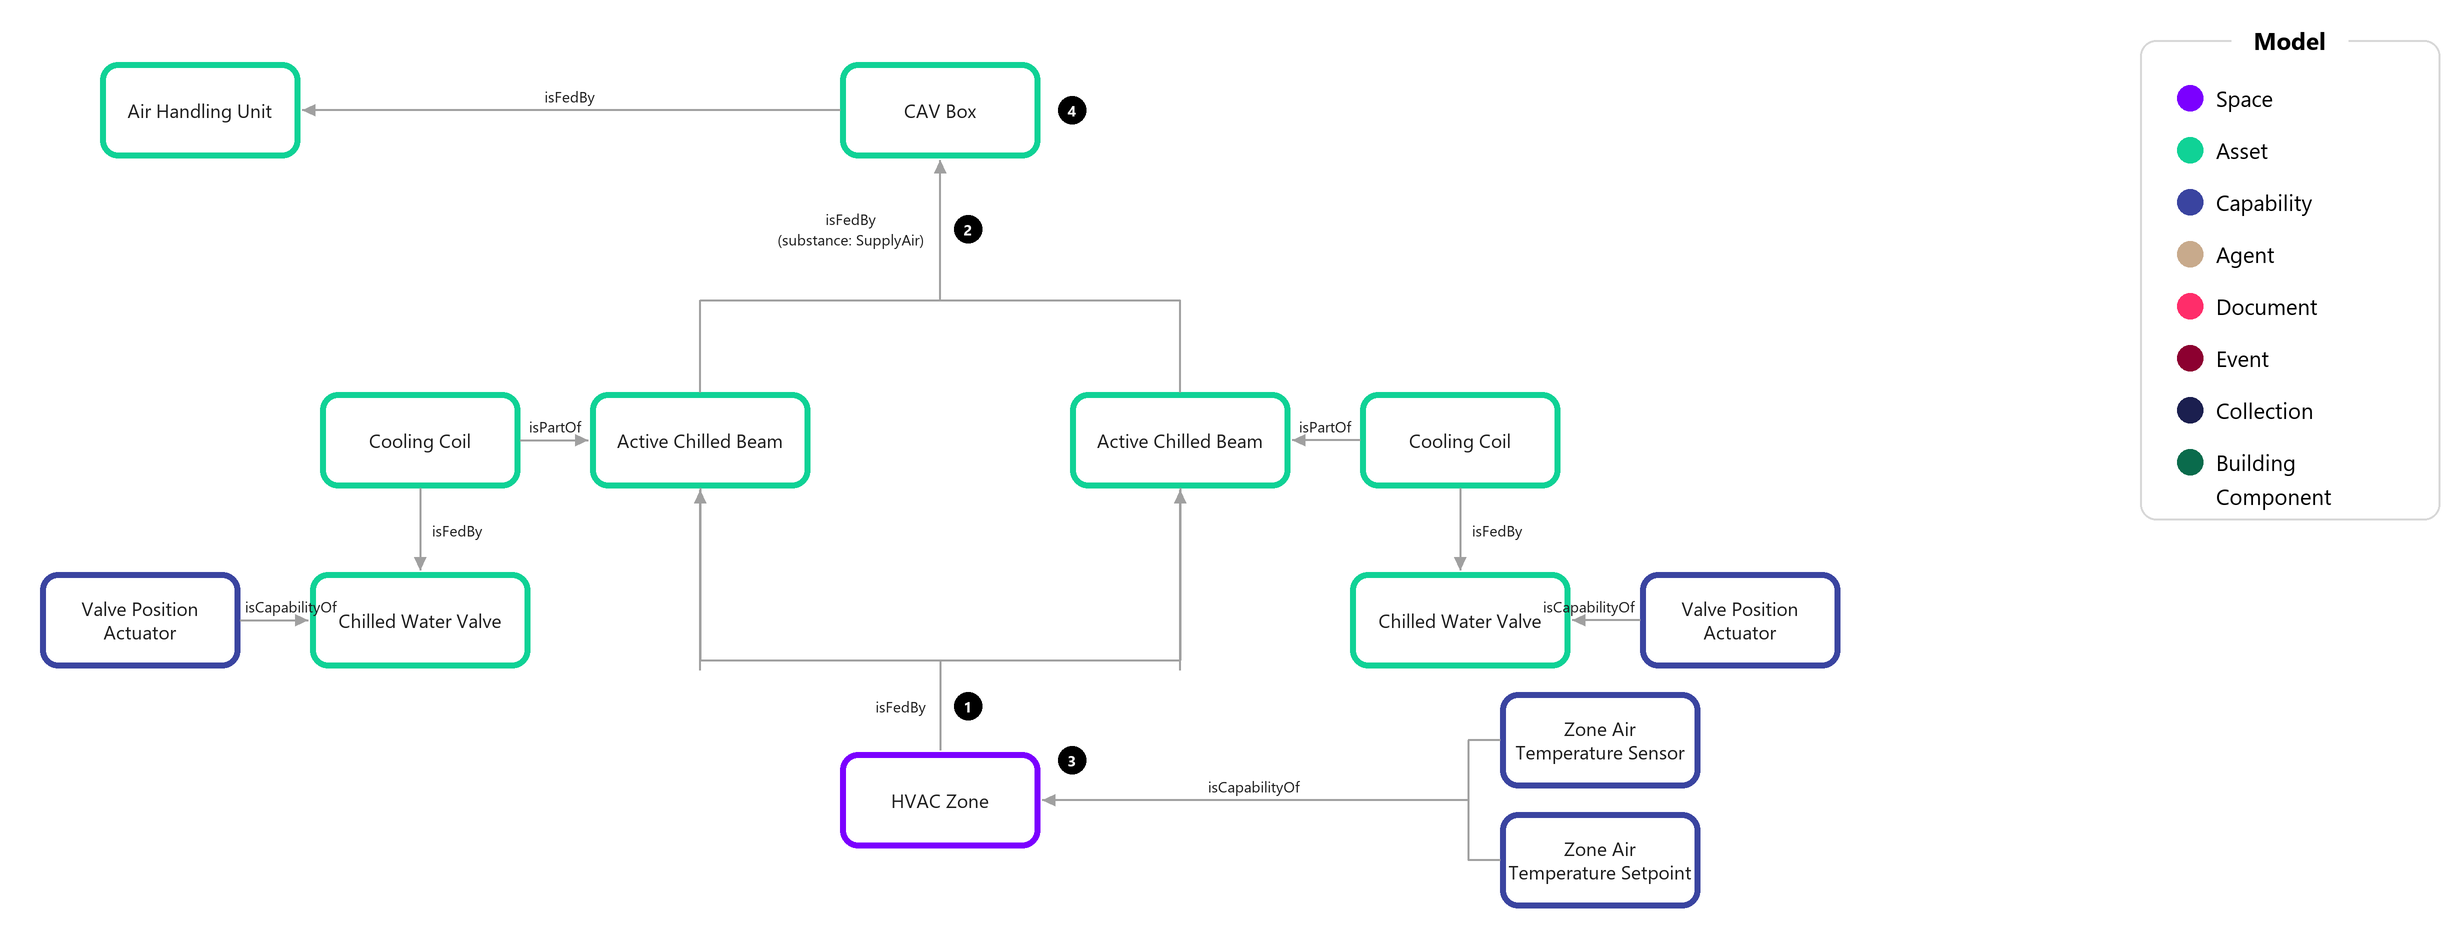
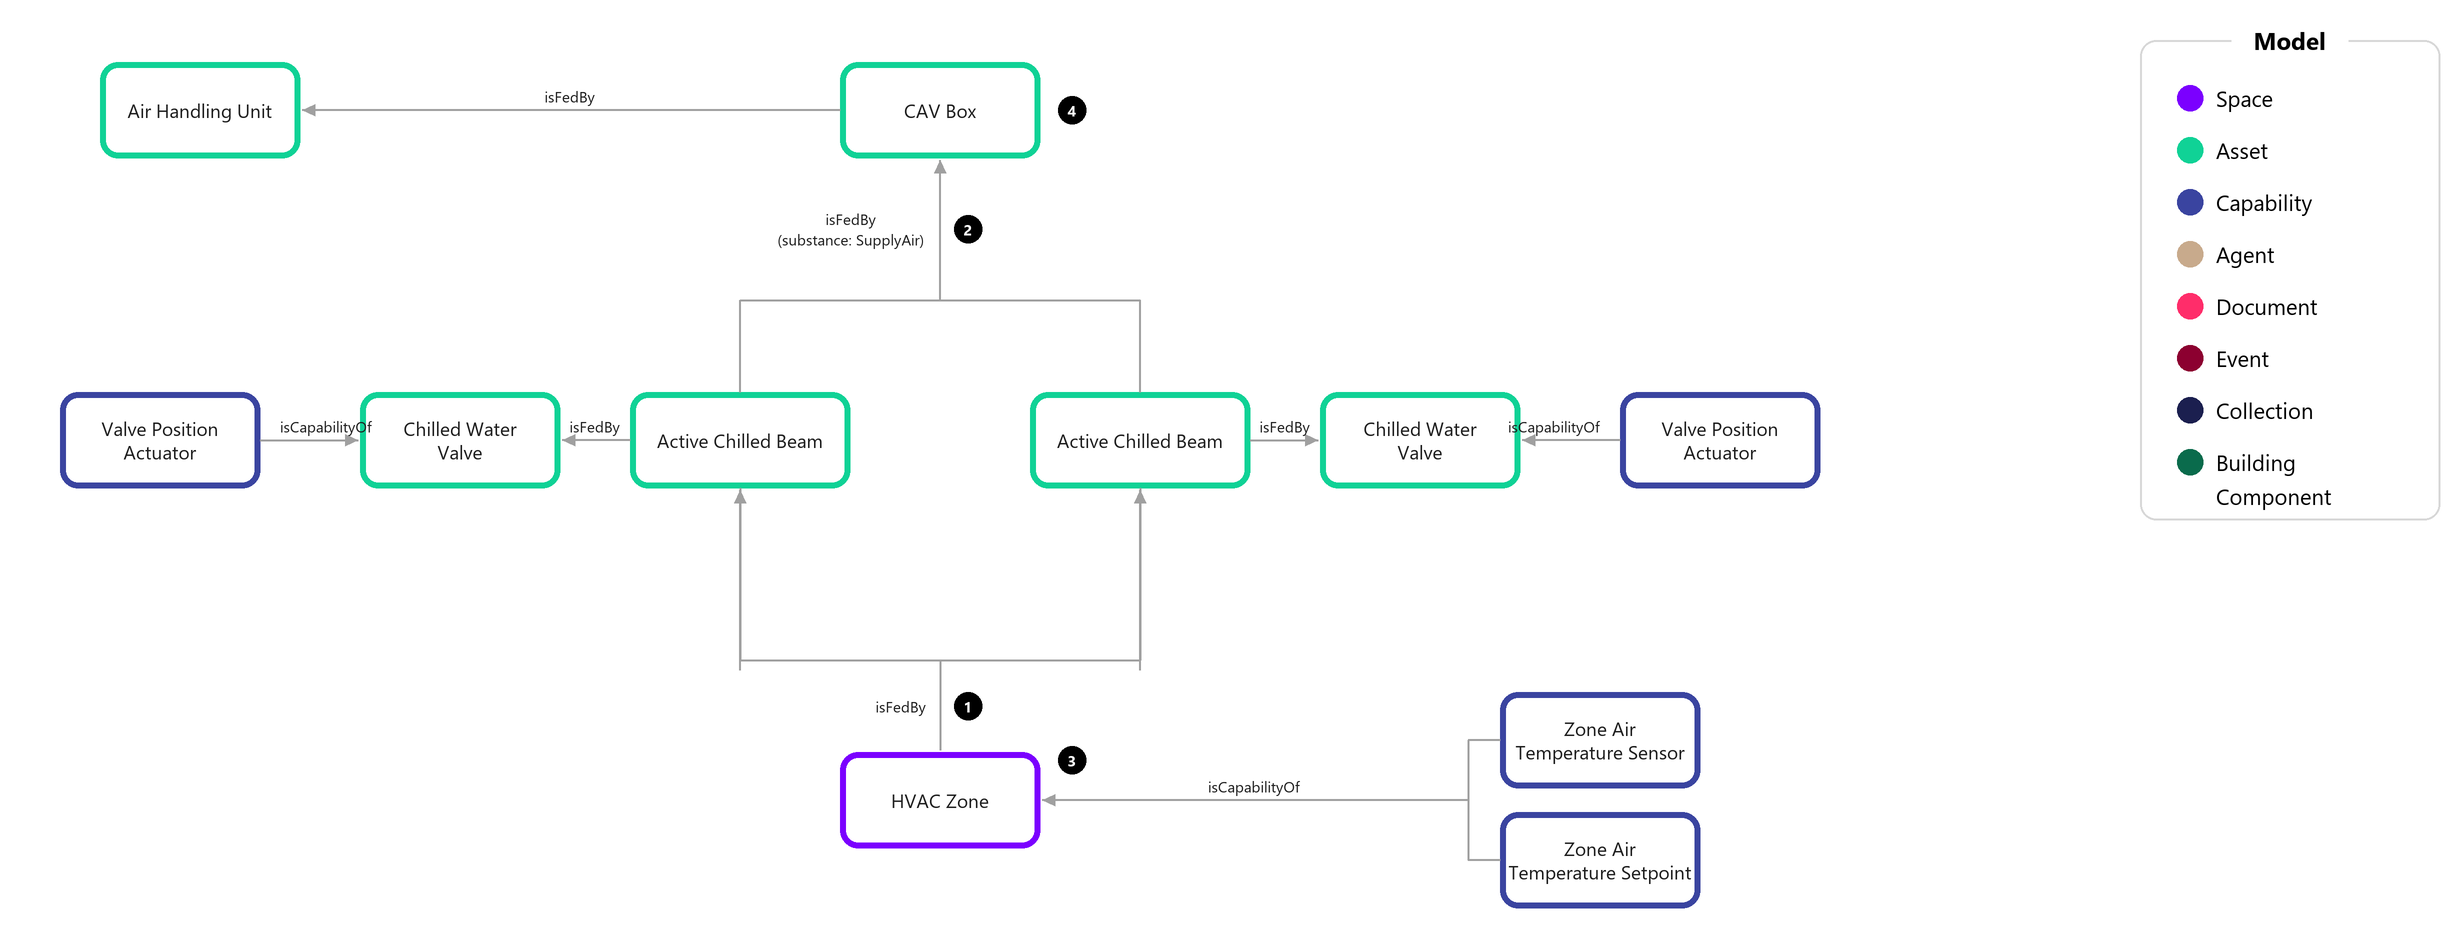
Chilled beam is the coil: its valve feeds the beam directly
Drops the Cooling Coil component from the chilled beam samples. A chilled
beam is itself the cooling coil, so the Chilled Water Valve relates to the
beam directly (beam isFedBy valve) with the valve position points on the
valve twin, and the beam keeps its chilled water feed from the pump. This
is the one terminal unit where a valve feeds the unit rather than a coil
component of it; the general rule says so.

diff --git a/Samples/Images/Source/HVACChilledBeam-Example1.py b/Samples/Images/Source/HVACChilledBeam-Example1.py
@@ -1,9 +1,9 @@
 """Renders Samples/Images/HVACChilledBeam-Example1.png.
 
-Active chilled beams: each beam isFedBy the CAV Box (supply air) and has a Cooling
-Coil component fed by a Chilled Water Valve, which the chilled water pump feeds.
-Valve position points sit on the valve twin; primary air control points on the
-CAV Box. Zone air points are not shown here, they belong to the HVAC Zone (see
+Active chilled beams: each beam isFedBy the CAV Box (supply air), the chilled
+water pump (chilled water) and its own Chilled Water Valve. The beam is the coil,
+so there is no coil component. Valve position points sit on the valve twin;
+primary air control points on the CAV Box. Zone air points are not shown here, they belong to the HVAC Zone (see
 Example2).
 
     python Samples/Images/Source/HVACChilledBeam-Example1.py
@@ -16,7 +16,7 @@ import os
 from PIL import Image, ImageDraw, ImageFont
 
 S = 2  # supersampling factor; drawn at 2x, downscaled at the end
-W, H = 2460, 1000
+W, H = 2460, 800
 
 SPACE = (123, 0, 255)
 ASSET = (16, 210, 150)
@@ -155,34 +155,25 @@ cav_caps = [
 ]
 capabilities_of(cav, cav_caps, "right", 3)
 
-beam1 = box(700, 360, "Active Chilled Beam", ASSET, w=220)
-beam2 = box(1180, 360, "Active Chilled Beam", ASSET, w=220)
+beam1 = box(740, 360, "Active Chilled Beam", ASSET, w=220)
+beam2 = box(1140, 360, "Active Chilled Beam", ASSET, w=220)
 fed_by_up([beam1, beam2], cav, 250, "isFedBy\n(substance: SupplyAir)", num=1)
 
-# --- each beam: Cooling Coil isPartOf beam, coil isFedBy Chilled Water Valve ---------
-coils, valves = [], []
-for i, b in enumerate((beam1, beam2)):
-    coil = box(b["cx"], 540, "Cooling Coil", ASSET)
-    arrow(coil["cx"], coil["t"], b["cx"], b["b"] + 2)
-    label(coil["cx"] + 12, (coil["t"] + b["b"]) / 2, "isPartOf", anchor="lm")
-    valve = box(b["cx"], 740, "Chilled Water Valve", ASSET, w=220)
-    arrow(coil["cx"], coil["b"], valve["cx"], valve["t"] - 2)
-    label(valve["cx"] + 12, (coil["b"] + valve["t"]) / 2, "isFedBy", anchor="lm")
-    coils.append(coil)
-    valves.append(valve)
-callout(coils[0]["cx"] - 28, (coils[0]["t"] + beam1["b"]) / 2, 2)
+# --- each beam isFedBy its Chilled Water Valve; the beam is the coil -------------------
+valve1 = box(460, 360, "Chilled Water\nValve", ASSET)
+arrow(beam1["l"], beam1["cy"], valve1["r"] + 2, valve1["cy"])
+label((beam1["l"] + valve1["r"]) / 2, beam1["cy"] - 14, "isFedBy")
+callout((beam1["l"] + valve1["r"]) / 2, beam1["cy"] + 22, 2)
+capabilities_of(valve1, [box(160, 360, "Valve Position\nActuator", CAPABILITY)], "left", 4)
+valve2 = box(1420, 360, "Chilled Water\nValve", ASSET)
+arrow(beam2["r"], beam2["cy"], valve2["l"] - 2, valve2["cy"])
+label((beam2["r"] + valve2["l"]) / 2, beam2["cy"] - 14, "isFedBy")
+capabilities_of(valve2, [box(1720, 360, "Valve Position\nActuator", CAPABILITY)], "right")
 
-capabilities_of(valves[0], [box(280, 740, "Valve Position\nActuator", CAPABILITY)], "left", 4)
-capabilities_of(valves[1], [box(1600, 740, "Valve Position\nActuator", CAPABILITY)], "right")
-
-# --- water path: Chiller <- Chilled Water Pump <- valves -----------------------------
-pump = box(940, 920, "Chilled Water Pump", ASSET, w=220)
-for v in valves:
-    line(v["cx"], v["b"], v["cx"], 850)
-line(valves[0]["cx"], 850, valves[1]["cx"], 850)
-arrow(pump["cx"], 850, pump["cx"], pump["t"] - 2)
-label((valves[0]["cx"] + pump["cx"]) / 2, 850 - 16, "isFedBy (substance: ChilledWater)")
-chiller = box(200, 920, "Chiller", ASSET)
+# --- water path: Chiller <- Chilled Water Pump <- beams ------------------------------
+pump = box(940, 700, "Chilled Water Pump", ASSET, w=220)
+fed_by_down([beam1, beam2], pump, 560, "isFedBy\n(substance: ChilledWater)")
+chiller = box(200, 700, "Chiller", ASSET)
 arrow(pump["l"], pump["cy"], chiller["r"] + 2, chiller["cy"])
 label((pump["l"] + chiller["r"]) / 2, chiller["cy"] - 14, "isFedBy")
 

diff --git a/Samples/Images/Source/HVACChilledBeam-Example3.py b/Samples/Images/Source/HVACChilledBeam-Example3.py
@@ -3,8 +3,8 @@
 Passive chilled beam and the HVAC Zone: the beam is fed by chilled water only and
 is not in the air path, so the zone isFedBy both the beam and the ventilating VAV
 Box. The zone air points are capabilities of the HVAC Zone; the VAV Box carries
-its discharge air points and the beam has only its cooling coil and chilled water
-valve components, with the valve points on the valve twin.
+its discharge air points and the beam isFedBy its own Chilled Water Valve, with the
+valve points on the valve twin. The beam is the coil, so there is no coil component.
 
     python Samples/Images/Source/HVACChilledBeam-Example3.py
 
@@ -129,24 +129,19 @@ vav_caps = [
 ]
 capabilities_of(vav, vav_caps, "right")
 
-# --- Passive Chilled Beam with its Cooling Coil and Chilled Water Valve ---------------
+# --- Passive Chilled Beam isFedBy the pump (chilled water) and its own valve ----------
 beam = box(620, 480, "Passive Chilled Beam", ASSET, w=230)
-coil = box(620, 650, "Cooling Coil", ASSET)
-arrow(coil["cx"], coil["t"], beam["cx"], beam["b"] + 2)
-label(coil["cx"] - 12, (coil["t"] + beam["b"]) / 2, "isPartOf", anchor="rm")
+pump = box(200, 480, "Chilled Water Pump", ASSET, w=220)
+arrow(beam["l"], beam["cy"], pump["r"] + 2, pump["cy"])
+label((beam["l"] + pump["r"]) / 2, pump["cy"] - 26, "isFedBy\n(substance: ChilledWater)")
+callout((beam["l"] + pump["r"]) / 2, pump["cy"] + 28, 1)
+chiller = box(200, 820, "Chiller", ASSET)
+arrow(pump["cx"], pump["b"], chiller["cx"], chiller["t"] - 2)
+label(pump["cx"] - 12, (pump["b"] + chiller["t"]) / 2, "isFedBy", anchor="rm")
 valve = box(620, 820, "Chilled Water Valve", ASSET, w=220)
-arrow(coil["cx"], coil["b"], valve["cx"], valve["t"] - 2)
-label(valve["cx"] - 12, (coil["b"] + valve["t"]) / 2, "isFedBy", anchor="rm")
+arrow(beam["cx"], beam["b"], valve["cx"], valve["t"] - 2)
+label(valve["cx"] - 12, (beam["b"] + valve["t"]) / 2, "isFedBy", anchor="rm")
 capabilities_of(valve, [box(980, 820, "Valve Position\nActuator", CAPABILITY)], "right")
-
-# --- water path: Chiller <- Chilled Water Pump <- valve -------------------------------
-pump = box(200, 820, "Chilled Water Pump", ASSET, w=220)
-arrow(valve["l"], valve["cy"], pump["r"] + 2, pump["cy"])
-label((valve["l"] + pump["r"]) / 2, pump["cy"] - 26, "isFedBy\n(substance: ChilledWater)")
-callout((valve["l"] + pump["r"]) / 2, pump["cy"] + 28, 1)
-chiller = box(200, 480, "Chiller", ASSET)
-arrow(pump["cx"], pump["t"], chiller["cx"], chiller["b"] + 2)
-label(pump["cx"] - 12, (pump["t"] + chiller["b"]) / 2, "isFedBy", anchor="rm")
 
 # --- HVAC Zone (space): two feeders ---------------------------------------------------
 zone = box(1260, 820, "HVAC Zone", SPACE)
@@ -157,7 +152,7 @@ label(zone["cx"] + 54, 470, "isFedBy\n(substance: SupplyAir)", anchor="lm")
 # and actuator, then up into the beam's side
 line(zone["cx"] - 40, zone["t"], zone["cx"] - 40, 650, 790, 650, 790, beam["cy"])
 arrow(790, beam["cy"], beam["r"] + 2, beam["cy"])
-label(804, (beam["cy"] + 650) / 2, "isFedBy\n(substance: ChilledWater)", anchor="lm")
+label(804, (beam["cy"] + 650) / 2 - 10, "isFedBy\n(substance: ChilledWater)", anchor="lm")
 callout(zone["l"] - 32, zone["t"] + 8, 2)
 
 zone_caps = [

diff --git a/Samples/Images/Source/HVACChilledBeam-Example2.py b/Samples/Images/Source/HVACChilledBeam-Example2.py
@@ -2,8 +2,8 @@
 
 Active chilled beams and the HVAC Zone: the zone isFedBy each beam, each beam
 isFedBy the CAV Box, and the box has no relationship to the zone. The zone air
-points are capabilities of the HVAC Zone; each beam has only its cooling coil and
-chilled water valve components, with the valve points on the valve twin.
+points are capabilities of the HVAC Zone; each beam isFedBy its own Chilled Water
+Valve, with the valve points on the valve twin.
 
     python Samples/Images/Source/HVACChilledBeam-Example2.py
 
@@ -136,23 +136,20 @@ cav = box(940, 110, "CAV Box", ASSET)
 arrow(cav["l"], cav["cy"], ahu["r"] + 2, ahu["cy"])
 label((cav["l"] + ahu["r"]) / 2, ahu["cy"] - 14, "isFedBy")
 
-beam1 = box(700, 440, "Active Chilled Beam", ASSET, w=220)
-beam2 = box(1180, 440, "Active Chilled Beam", ASSET, w=220)
+beam1 = box(740, 440, "Active Chilled Beam", ASSET, w=220)
+beam2 = box(1140, 440, "Active Chilled Beam", ASSET, w=220)
 fed_by_up([beam1, beam2], cav, 300, "isFedBy\n(substance: SupplyAir)", num=2)
 
-# --- each beam: Cooling Coil isPartOf beam, coil isFedBy Chilled Water Valve ---------
-for b, side, cx, ax in ((beam1, "left", 420, 140), (beam2, "right", 1460, 1740)):
-    coil = box(cx, 440, "Cooling Coil", ASSET)
+# --- each beam isFedBy its Chilled Water Valve; the beam is the coil -------------------
+for b, side, cx, ax in ((beam1, "left", 460, 160), (beam2, "right", 1420, 1720)):
+    valve = box(cx, 440, "Chilled Water\nValve", ASSET)
     if side == "left":
-        arrow(coil["r"], coil["cy"], b["l"] - 2, b["cy"])
-        label((coil["r"] + b["l"]) / 2, b["cy"] - 14, "isPartOf")
+        arrow(b["l"], b["cy"], valve["r"] + 2, valve["cy"])
+        label((b["l"] + valve["r"]) / 2, b["cy"] - 14, "isFedBy")
     else:
-        arrow(coil["l"], coil["cy"], b["r"] + 2, b["cy"])
-        label((coil["l"] + b["r"]) / 2, b["cy"] - 14, "isPartOf")
-    valve = box(cx, 620, "Chilled Water Valve", ASSET, w=220)
-    arrow(coil["cx"], coil["b"], valve["cx"], valve["t"] - 2)
-    label(valve["cx"] + 12, (coil["b"] + valve["t"]) / 2, "isFedBy", anchor="lm")
-    capabilities_of(valve, [box(ax, 620, "Valve Position\nActuator", CAPABILITY)], side)
+        arrow(b["r"], b["cy"], valve["l"] - 2, valve["cy"])
+        label((b["r"] + valve["l"]) / 2, b["cy"] - 14, "isFedBy")
+    capabilities_of(valve, [box(ax, 440, "Valve Position\nActuator", CAPABILITY)], side)
 
 # --- HVAC Zone (space) fed by each beam ------------------------------------------
 zone = box(940, 800, "HVAC Zone", SPACE)

diff --git a/Samples/03-HVAC.md b/Samples/03-HVAC.md
@@ -38,7 +38,7 @@ Every example in this document follows the same rule for zone air sensors and se
 
 2. The HVAC Zone carries one of each. One zone, one loop, one Zone Air Temperature Sensor and one of each setpoint. Where several units serve the zone, they share those points through the zone; none of them carries a copy.
 
-3. The unit keeps the points which describe the unit: discharge air temperature, discharge airflow and airflow setpoints, damper position, fan run state, reheat state. These stay capabilities of the unit, hosted by its controller as usual. Valve position points are capabilities of the valve component which feeds the unit's coil, as shown in Asset Components.
+3. The unit keeps the points which describe the unit: discharge air temperature, discharge airflow and airflow setpoints, damper position, fan run state, reheat state. These stay capabilities of the unit, hosted by its controller as usual. Valve position points are capabilities of the valve twin, which feeds the unit's coil as shown in Asset Components, or feeds the unit itself where the unit is the coil, as with a chilled beam.
 
 4. Where a controller has several physical zone temperature inputs, the zone's single sensor is the value the controller controls to, or a calculated aggregate of the inputs where the controller does not emit one. The raw inputs may still be modeled as Zone Air Temperature Sensors, as capabilities of the asset which physically hosts them, so that each reading is kept; they are not capabilities of the HVAC Zone. HVAC Multi-Zone Room above shows this.
 
@@ -152,7 +152,7 @@ Chilled Beams are a type of terminal unit located in a ceiling that receive chil
 
 1. Each Active Chilled Beam is fed by Supply Air from an upstream unit. In this example, we show that being a Constant Air Volume Box (CAV Box).
 
-2. Each chilled beam has a Cooling Coil component (Cooling Coil isPartOf Active Chilled Beam) and a Chilled Water Valve which controls flow to that coil (Cooling Coil isFedBy Chilled Water Valve), following the coil and valve pattern in Asset Components. The valve relates to the beam only through its coil, and chilled water reaches the beam through the valve: the valves are fed by the chilled water plant (Chilled Water Valve isFedBy Chilled Water Pump).
+2. A chilled beam is itself the cooling coil, so it has no Cooling Coil component. Its Chilled Water Valve relates to the beam directly (Active Chilled Beam isFedBy Chilled Water Valve). This is the one terminal unit where a valve feeds the unit rather than a coil component of it; for boxes and fan coil units the valve feeds the coil, as shown in Asset Components. The beams are also fed by Chilled Water from the plant (Active Chilled Beam isFedBy Chilled Water Pump), which is the physical loop connection.
 
 3. Points that are associated with the primary supply air control, such as the Discharge Air Temperature Sensor and the Discharge Airflow Sensor, are associated with the upstream unit which is controlling the airflow such as the CAV Box. Zone air points are not: they belong to the HVAC Zone, as the next example shows.
 
@@ -166,7 +166,7 @@ Chilled Beams are a type of terminal unit located in a ceiling that receive chil
 
 2. Each Active Chilled Beam isFedBy the CAV Box or VAV Box which supplies its primary air. The box does not feed the HVAC Zone directly, in the same way that an Air Handling Unit upstream of a VAV Box does not feed the zone directly.
 
-3. The HVAC Zone carries one Zone Air Temperature Sensor and one of each Zone Air Temperature Setpoint, regardless of how many beams serve it, following Where Zone Air Points Belong above. The beams carry no zone air points, however the beam controllers are configured: whether one beam controller runs the zone loop, the box runs it, or each beam modulates its valve against the shared zone sensor, the zone points are the same and sit on the zone. Each beam's Cooling Coil and Chilled Water Valve components are modeled as in the Active Chilled Beam example above, with the valve points on the valve.
+3. The HVAC Zone carries one Zone Air Temperature Sensor and one of each Zone Air Temperature Setpoint, regardless of how many beams serve it, following Where Zone Air Points Belong above. The beams carry no zone air points, however the beam controllers are configured: whether one beam controller runs the zone loop, the box runs it, or each beam modulates its valve against the shared zone sensor, the zone points are the same and sit on the zone. Each beam isFedBy its own Chilled Water Valve as in the Active Chilled Beam example above, with the valve points on the valve.
 
 4. A VAV Box or CAV Box which only feeds Active Chilled Beams has no relationship to the HVAC Zone. Its zone is reached through the beams it feeds. Do not add a second isFedBy from the HVAC Zone to the box to shortcut this: a zone fed by both the box and the beams it supplies double-counts every unit on that zone.
 
@@ -174,7 +174,7 @@ Chilled Beams are a type of terminal unit located in a ceiling that receive chil
 
 ![HVACChilledBeam-Example3](Images/HVACChilledBeam-Example3.png)
 
-1. A Passive Chilled Beam has no primary air supply, so it is not in the supply air path at all. It conditions the zone directly by convection from its Cooling Coil, which is fed by Chilled Water only through the beam's Chilled Water Valve (Cooling Coil isPartOf Passive Chilled Beam, Cooling Coil isFedBy Chilled Water Valve, Chilled Water Valve isFedBy Chilled Water Pump).
+1. A Passive Chilled Beam has no primary air supply, so it is not in the supply air path at all. It conditions the zone directly by convection and is fed by Chilled Water only (Passive Chilled Beam isFedBy Chilled Water Pump). Like the active beam, it is itself the coil: its Chilled Water Valve feeds the beam directly (Passive Chilled Beam isFedBy Chilled Water Valve) and there is no Cooling Coil component.
 
 2. The HVAC Zone therefore has two feeders: it isFedBy the Passive Chilled Beam (substance ChilledWater) and isFedBy the VAV Box or CAV Box which ventilates the zone (substance SupplyAir). Both relationships are correct, and the zone having two feeders is the expected shape for this system.
 
